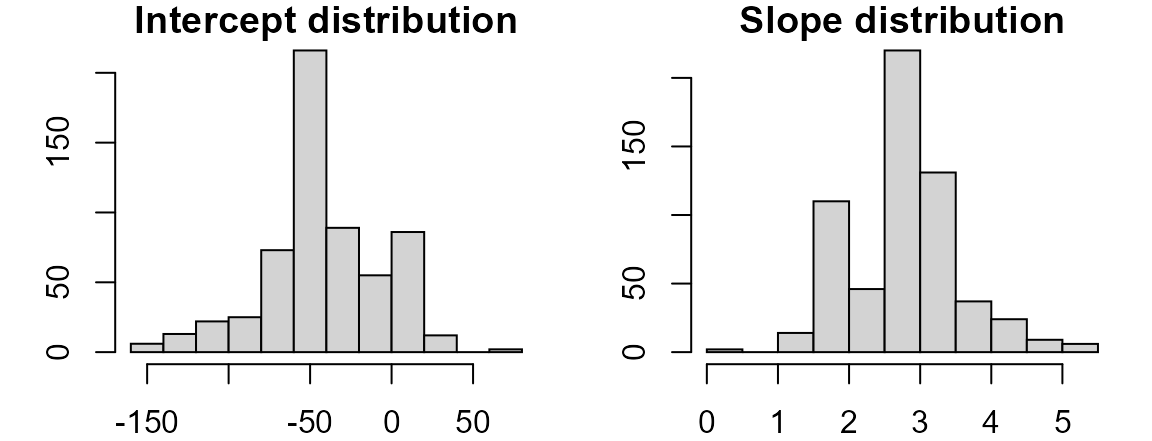
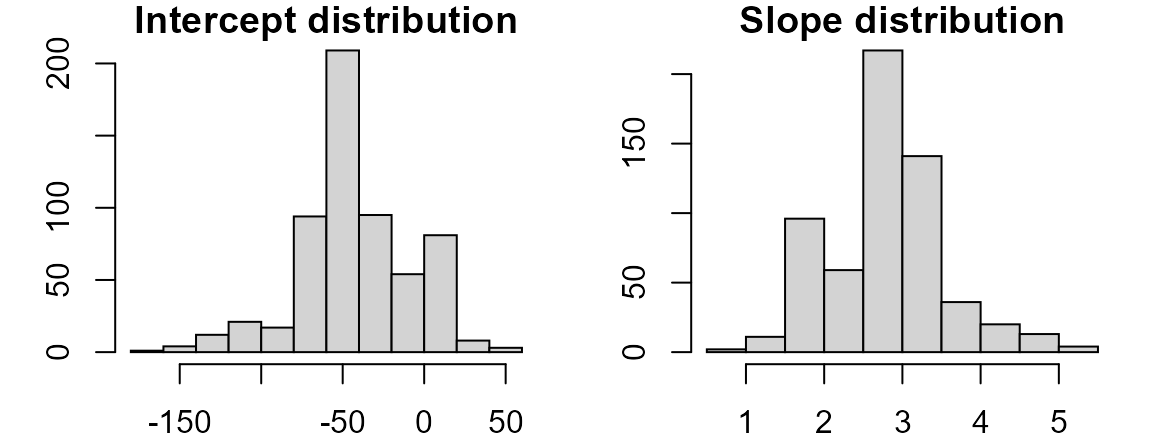
deleted gh-pages branch

diff --git a/docs/articles/RLine.html b/docs/articles/RLine.html
@@ -279,9 +279,9 @@ median(y_{l,m,r} - b * x_{l,m,r})
 <code class="sourceCode R"><span class="va">conf</span> <span class="op">&lt;-</span> <span class="fu"><a href="https://rdrr.io/r/base/t.html" class="external-link">t</a></span><span class="op">(</span><span class="fu"><a href="https://rdrr.io/r/base/data.frame.html" class="external-link">data.frame</a></span><span class="op">(</span>Intercept <span class="op">=</span> <span class="fu"><a href="https://rdrr.io/r/stats/quantile.html" class="external-link">quantile</a></span><span class="op">(</span><span class="va">bt</span><span class="op">[</span>,<span class="fl">1</span><span class="op">]</span>, p<span class="op">=</span><span class="fu"><a href="https://rdrr.io/r/base/c.html" class="external-link">c</a></span><span class="op">(</span><span class="fl">0.05</span>,<span class="fl">0.95</span><span class="op">)</span> <span class="op">)</span>,
                      Slope <span class="op">=</span> <span class="fu"><a href="https://rdrr.io/r/stats/quantile.html" class="external-link">quantile</a></span><span class="op">(</span><span class="va">bt</span><span class="op">[</span>,<span class="fl">2</span><span class="op">]</span>, p<span class="op">=</span><span class="fu"><a href="https://rdrr.io/r/base/c.html" class="external-link">c</a></span><span class="op">(</span><span class="fl">0.05</span>,<span class="fl">0.95</span><span class="op">)</span> <span class="op">)</span><span class="op">)</span><span class="op">)</span>
 <span class="va">conf</span>
-<span class="co">#&gt;                    5%      95%</span>
-<span class="co">#&gt;  Intercept -78.372020 11.98067</span>
-<span class="co">#&gt;  Slope       1.652857  3.59244</span></code></pre></div>
+<span class="co">#&gt;                   5%       95%</span>
+<span class="co">#&gt;  Intercept -76.85235 11.875164</span>
+<span class="co">#&gt;  Slope       1.64119  3.579736</span></code></pre></div>
 </div>
 <div class="section level3">
 <h3 id="resampling-the-x-y-paired-values">Resampling the x-y paired values<a class="anchor" aria-label="anchor" href="#resampling-the-x-y-paired-values"></a>
@@ -307,8 +307,8 @@ median(y_{l,m,r} - b * x_{l,m,r})
                      Slope <span class="op">=</span> <span class="fu"><a href="https://rdrr.io/r/stats/quantile.html" class="external-link">quantile</a></span><span class="op">(</span><span class="va">bt</span><span class="op">[</span>,<span class="fl">2</span><span class="op">]</span>, p<span class="op">=</span><span class="fu"><a href="https://rdrr.io/r/base/c.html" class="external-link">c</a></span><span class="op">(</span><span class="fl">0.05</span>,<span class="fl">0.95</span><span class="op">)</span> <span class="op">)</span><span class="op">)</span><span class="op">)</span>
 <span class="va">conf</span>
 <span class="co">#&gt;                     5%       95%</span>
-<span class="co">#&gt;  Intercept -109.755537 10.305180</span>
-<span class="co">#&gt;  Slope        1.643678  4.184233</span></code></pre></div>
+<span class="co">#&gt;  Intercept -108.368421 10.972644</span>
+<span class="co">#&gt;  Slope        1.648445  4.157895</span></code></pre></div>
 </div>
 </div>
 <div class="section level1">

diff --git a/docs/index.html b/docs/index.html
@@ -79,7 +79,6 @@
   <div class="contents col-md-9">
 
 
-<p><a href="https://travis-ci.com/mgimond/tukeyedar" class="external-link"><img src="https://travis-ci.com/mgimond/tukeyedar.svg?branch=master" alt="Travis build status"></a></p>
 <p><a href="https://lifecycle.r-lib.org/articles/stages.html#experimental" class="external-link"><img src="https://img.shields.io/badge/lifecycle-experimental-orange.svg" alt="Lifecycle: experimental"></a> <!-- badges: end --></p>
 <div class="section level1">
 <div class="page-header"><h1 id="tukeyedar">tukeyedar<a class="anchor" aria-label="anchor" href="#tukeyedar"></a>

diff --git a/README.md b/README.md
@@ -1,9 +1,6 @@
 <!-- badges: start -->
 [![R-CMD-check](https://github.com/mgimond/tukeyedar/actions/workflows/check-release.yaml/badge.svg)](https://github.com/mgimond/tukeyedar/actions/workflows/check-release.yaml)
 
-[![Travis build
-status](https://travis-ci.com/mgimond/tukeyedar.svg?branch=master)](https://travis-ci.com/mgimond/tukeyedar)
-
 [![Lifecycle:
 experimental](https://img.shields.io/badge/lifecycle-experimental-orange.svg)](https://lifecycle.r-lib.org/articles/stages.html#experimental)
 <!-- badges: end -->
